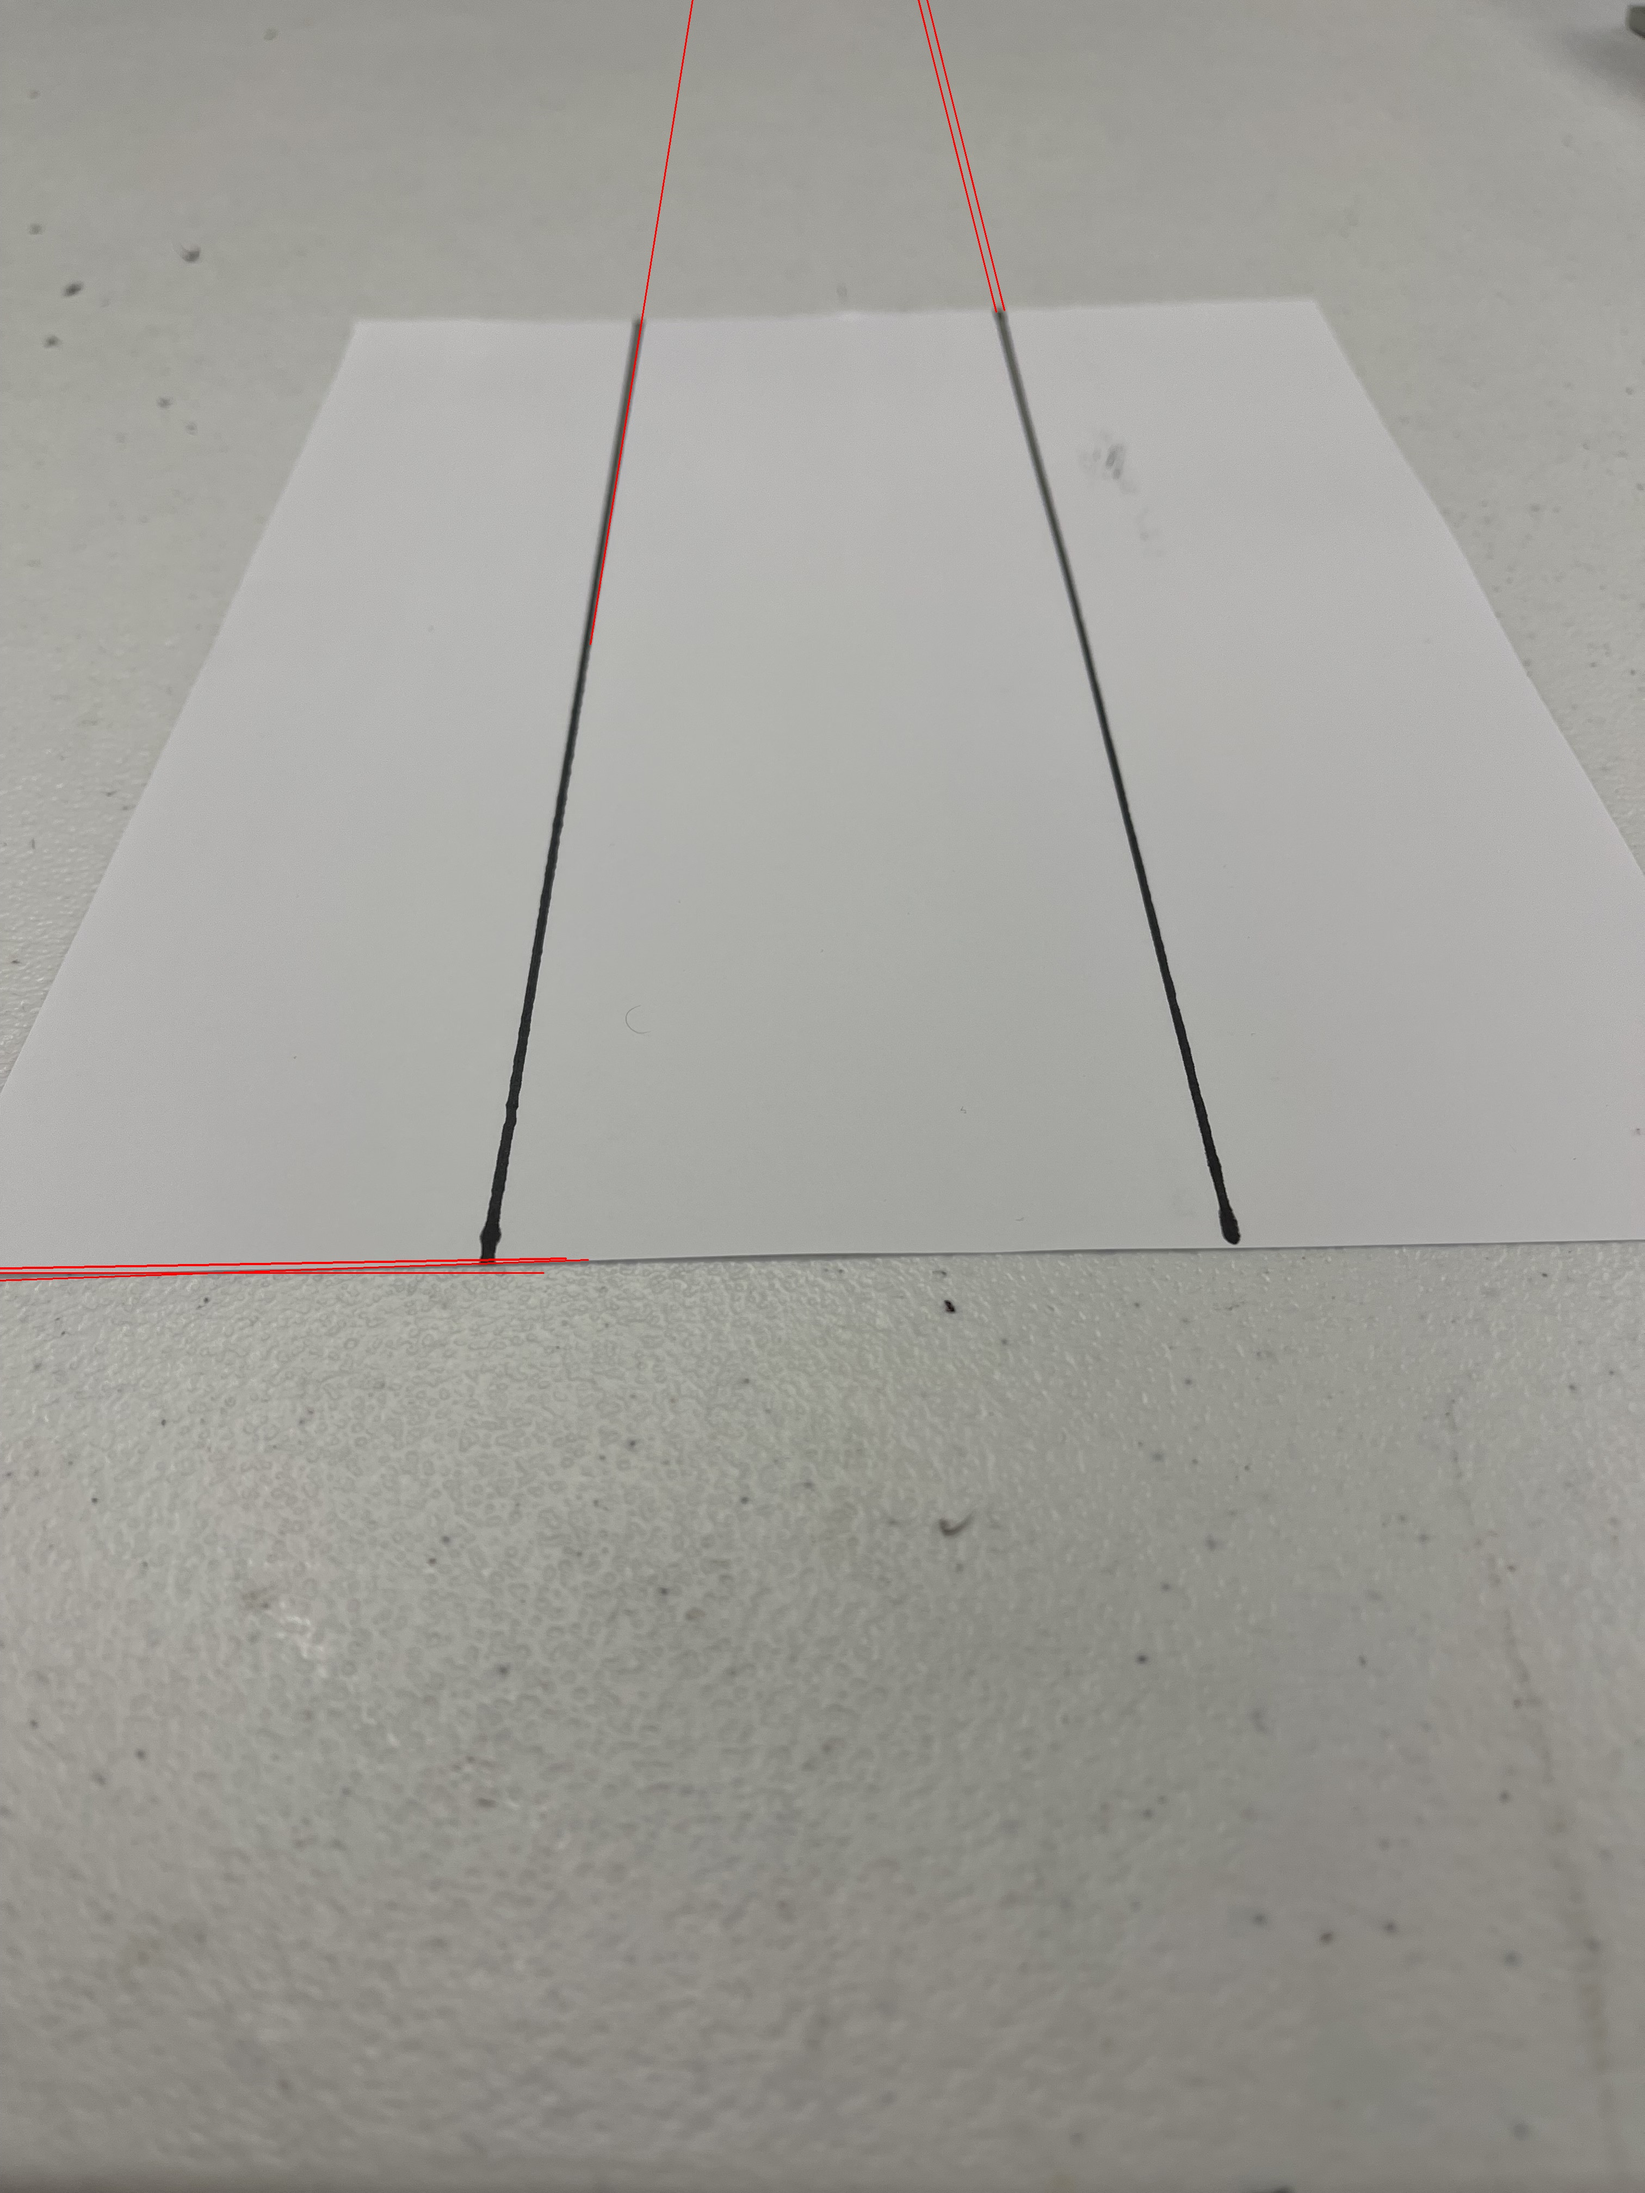
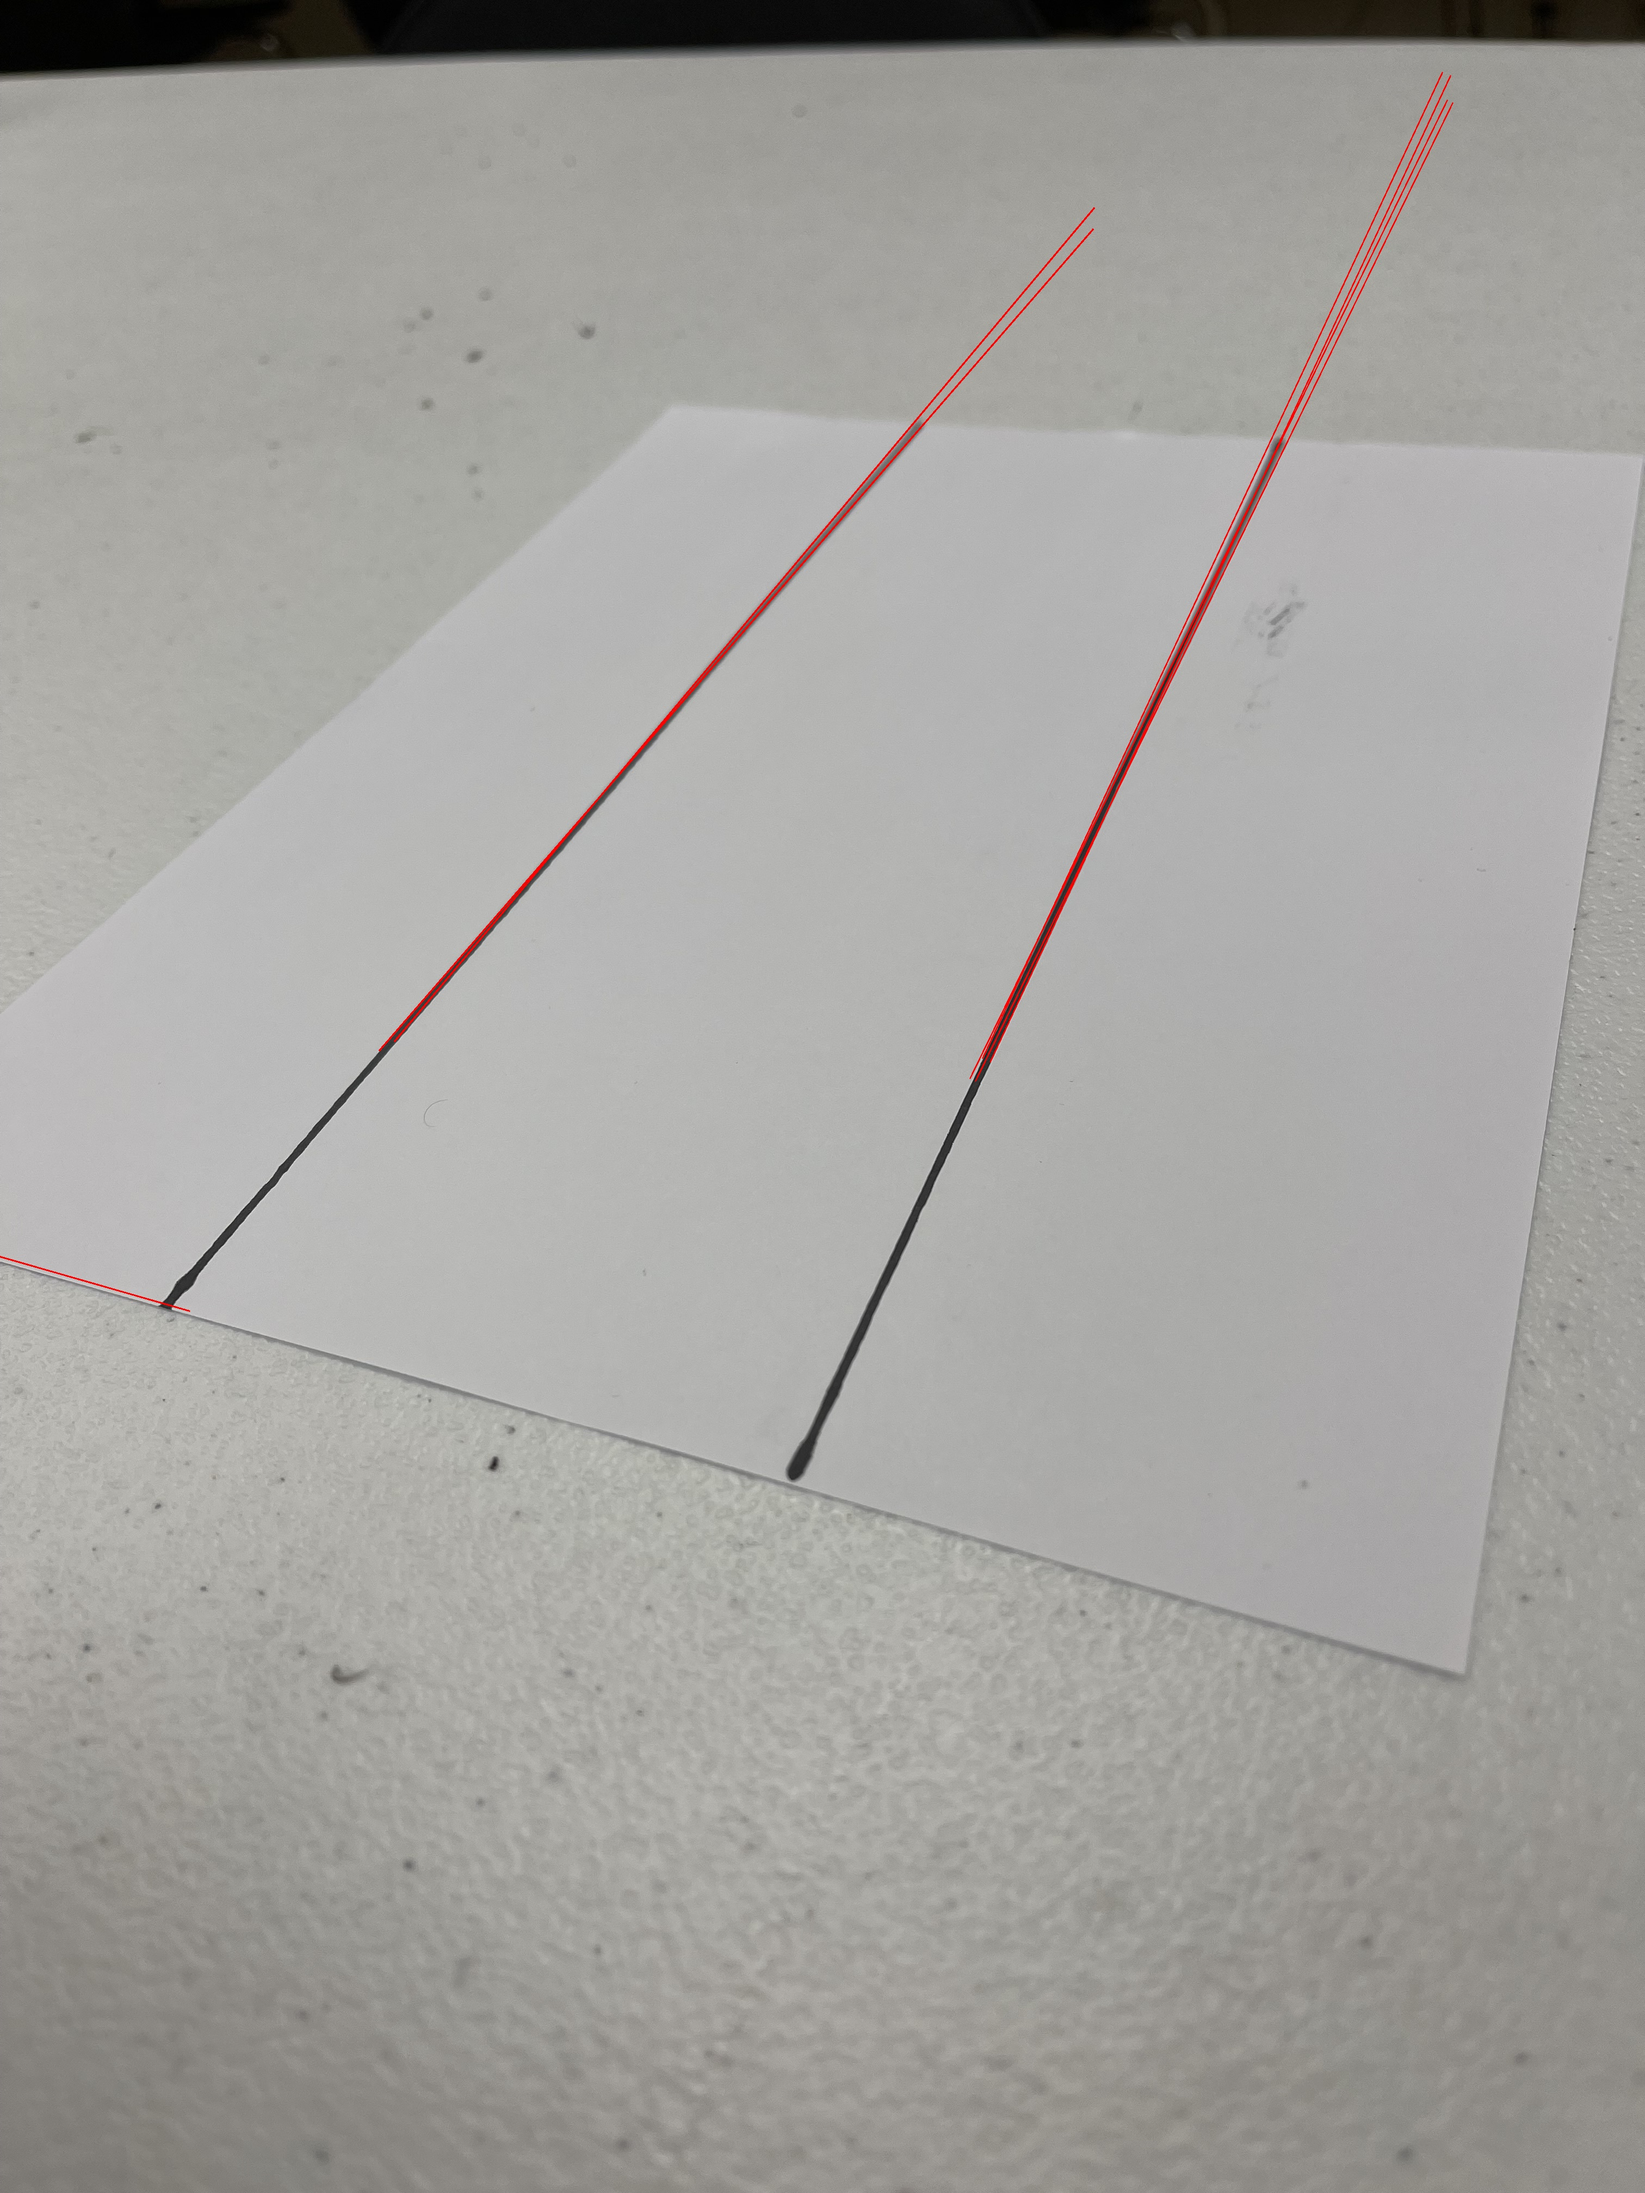
hi

diff --git a/laslinias.py b/laslinias.py
@@ -2,7 +2,7 @@ import cv2
 import numpy as np
 
 
-img = cv2.imread('IMG-1199.jpg')
+img = cv2.imread('IMG-1201.jpg')
 
 onegray = cv2.cvtColor(img, cv2.COLOR_BGR2GRAY)
 edges = cv2.Canny(onegray, 50, 150, apertureSize=3)
